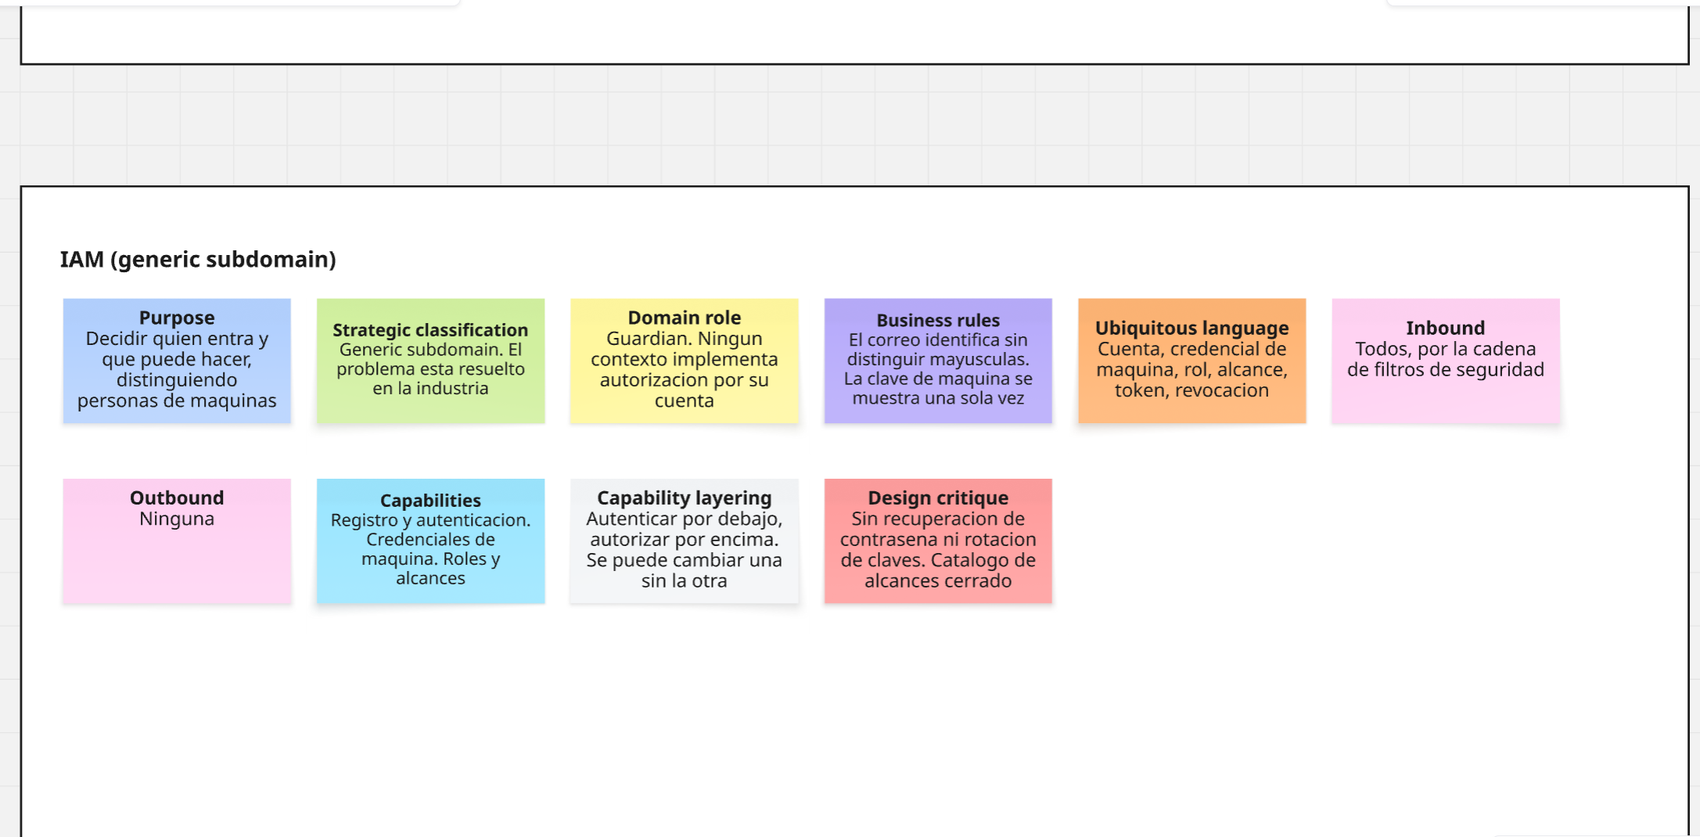
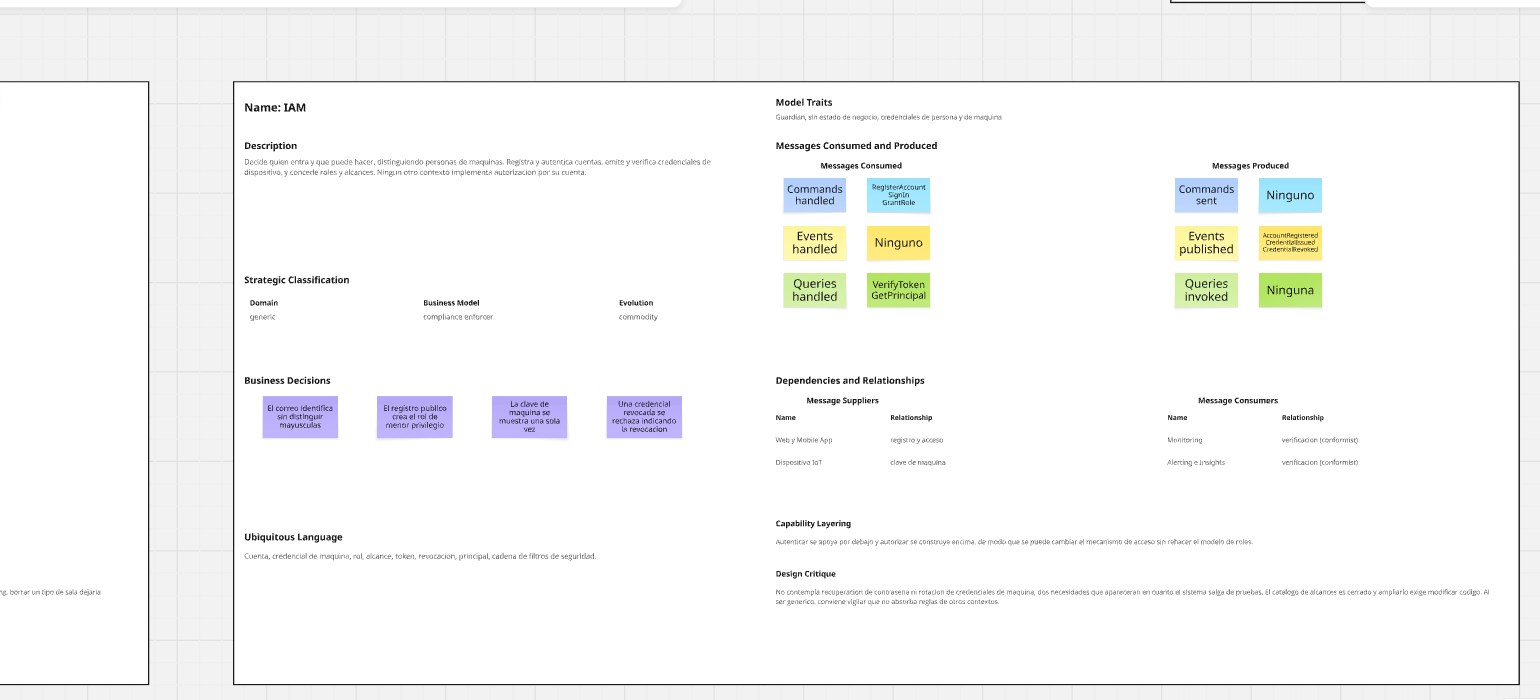
feat(chapter-4): notacion de Domain Storytelling y canvases en la plantilla oficial
Comparando con las imagenes del informe de referencia (estan en su rama
develop, no en iot) aparecieron dos diferencias de fondo.

4.1.1.2 no seguia la notacion del ejemplo. Ahora cada escenario lleva
su panel de leyenda y distingue actor, sistema, bounded context y
mensaje, con las flechas pasando por la caja del mensaje en lugar de
unir actor y contexto directamente. Los iconos de persona son los que
coloco el equipo en el board.

4.1.1.3 usaba una fila de post-its. Se rehace con la plantilla oficial
del Bounded Context Canvas (ddd-crew), que reparte el contenido en dos
columnas: Name, Description, Strategic Classification con sus tres
ejes, Business Decisions y Ubiquitous Language a la izquierda; Model
Traits, Messages Consumed and Produced desglosados en commands, events
y queries, y Dependencies con Suppliers y Consumers a la derecha. Se
mantienen Capability Layering y Design Critique, que el enunciado
tambien pide.

Los cuatro contextos quedan con su canvas completo.

diff --git a/README.md b/README.md
@@ -1364,7 +1364,7 @@ La consolidación final deja cuatro bounded contexts, que son Monitoring, Insigh
 <a id="4112-domain-message-flows-modeling"></a>
 #### <i>**4.1.1.2 Domain Message Flows Modeling.**</i>
 
-Identificados los contextos, la pregunta deja de ser qué hace cada uno y pasa a ser cómo colaboran para resolver un caso completo del negocio. Para visualizarlo se aplicó Domain Storytelling: cada diagrama nombra los actores implicados, tanto humanos como sistemas, los objetos de trabajo que se transfieren entre ellos y las actividades numeradas que marcan el orden, de modo que el conjunto se lee como una frase. Se modelaron tres escenarios: el principal de operación, el de instalación y el de fallo.
+Identificados los contextos, la pregunta deja de ser qué hace cada uno y pasa a ser cómo colaboran para resolver un caso completo del negocio. Para visualizarlo se aplicó Domain Storytelling. Cada diagrama incluye su propia leyenda de notación y distingue cuatro elementos: los actores humanos, los sistemas que participan sin intervención de una persona, los bounded contexts y los mensajes que se transfieren entre ellos. Cada mensaje lleva el número que marca su lugar en la secuencia, y las flechas van del emisor al receptor pasando por el mensaje, de modo que el conjunto se lee como una frase. Se modelaron tres escenarios: el principal de operación, el de instalación y el de fallo.
 
 **Escenario 1. Disconfort acústico en una sala**
 
